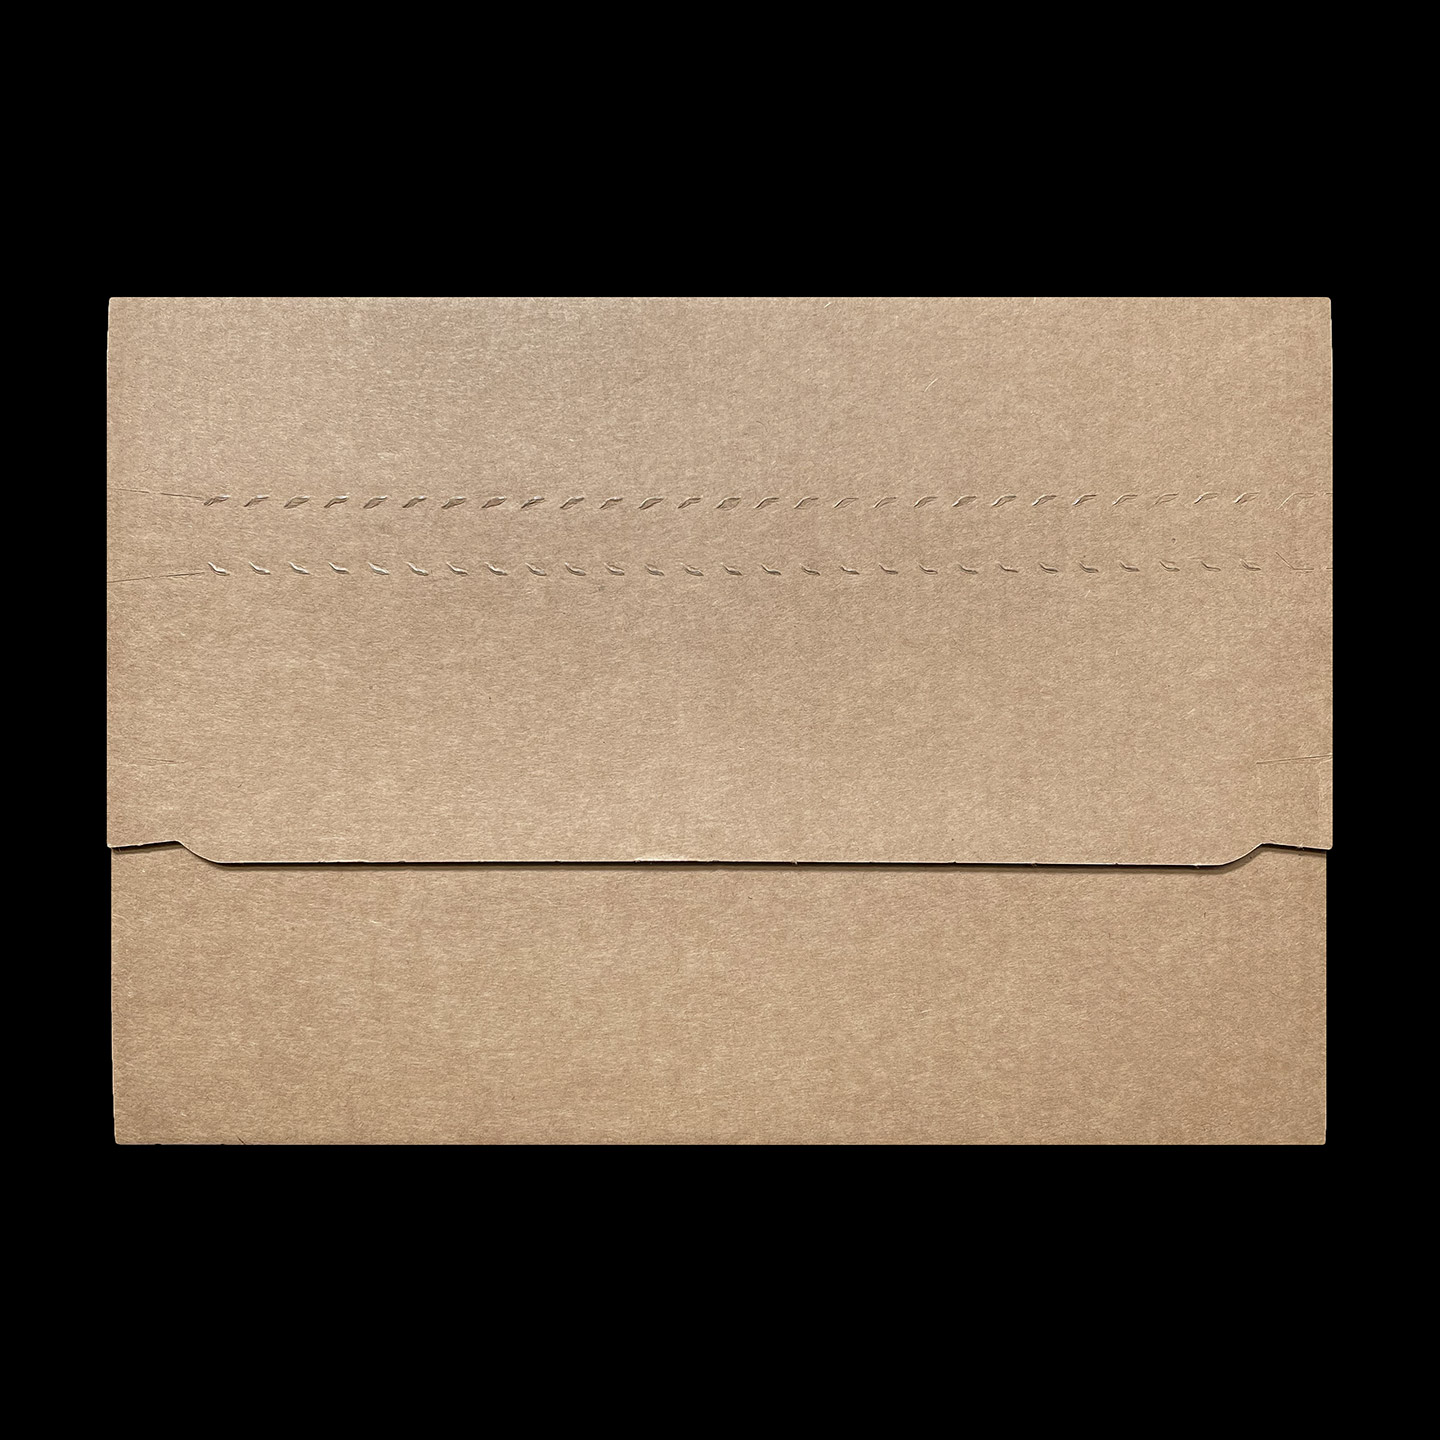
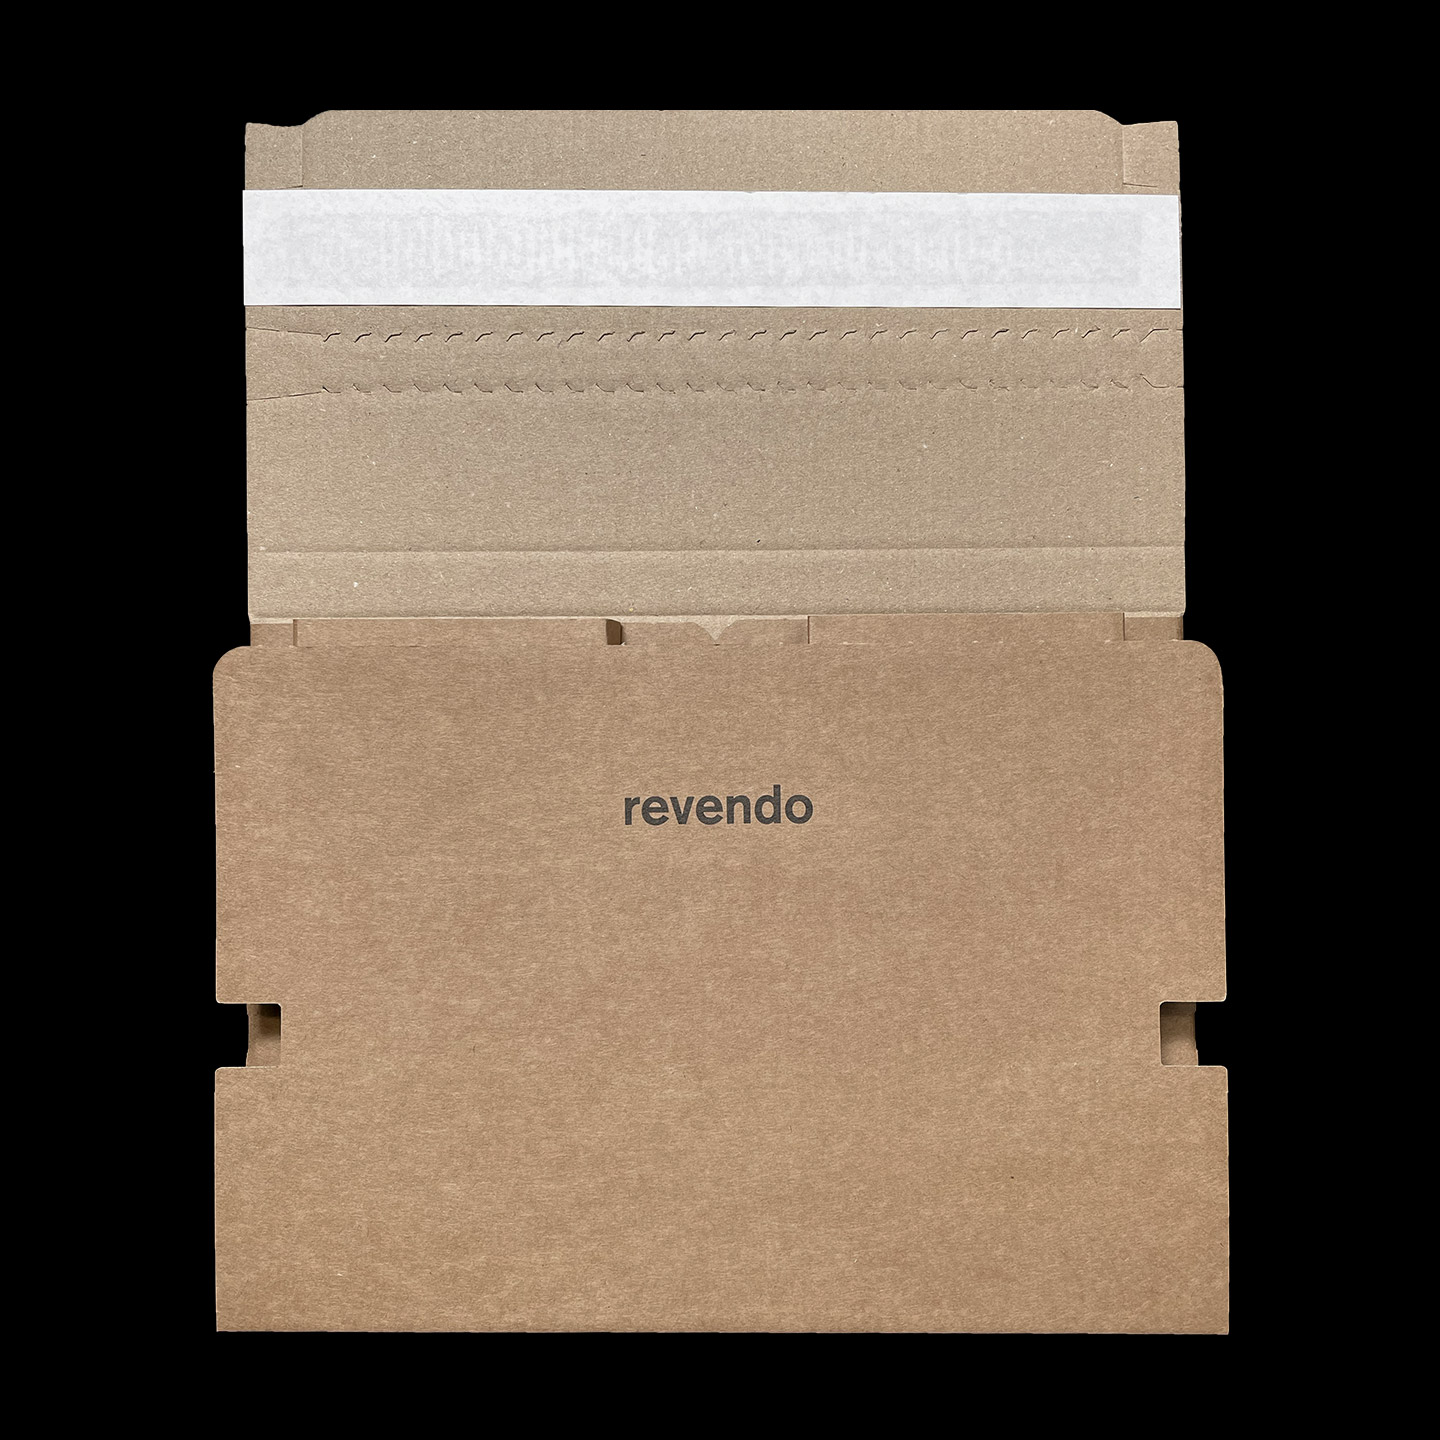
update content

diff --git a/content/portfolio/reego.md b/content/portfolio/reego.md
@@ -7,26 +7,16 @@ gallery:
   - url: reego-1.svg
     alt: Reego wordmark white on mineral grey
   - url: reego-2.svg
-    alt: Reego colour scheme gradients in light and dark
+    alt: Reego app icon outline
   - url: reego-3.svg
     alt: Reego colour scheme with nuances from mineral grey to white
   - url: reego-4.svg
     alt: Reego wordmark mineral grey on white
   - url: reego-5.jpg
-    alt: Reego wordmark on a dark blue tesla car
-  - url: reego-6.jpg
     alt: Reego app icon sketch
-  - url: reego-7.svg
-    alt: Reegoapp icon outline
-  - url: reego-8.svg
-    alt: Reego app icon beta
-  - url: reego-9.svg
-    alt: Reego app icon final
-  - url: reego-10.svg
-    alt: Reego app screen design header in darkmode
-  - url: reego-11.svg
-    alt: Reego app screen design header in lightmode
-  - url: reego-12.jpg
+  - url: reego-6.jpg
     alt: Reego wordmark on a white tesla car
+  - url: reego-7.jpg
+    alt: Reego wordmark on a dark blue tesla car
 ---
 At the formation of the start-up Reego I was commissioned to develop a logo. Reego is a vehicle dealership that offers to rent, sell and purchase electric cars. In a briefing with Reego we settled on attributes like ‹revolutionary› and ‹dynamic› and focused heavily on the functionality of the logo itself. Complementary to the logo, I was asked to design an additional app-icon and a colour scheme for the app.

diff --git a/content/portfolio/one-for-all.md b/content/portfolio/one-for-all.md
@@ -16,6 +16,8 @@ gallery:
     alt: One for all Revendo packaging
   - url: one-for-all-6.jpg
     alt: One for all Revendo packaging
+  - url: one-for-all-7.jpg
+    alt: One for all Revendo packaging
 ---
 Together with my former colleague Mara Rubio and in collaboration with Fischer Papier AG, we designed a universal packaging for all popular smartphones at Revendo. With the new design, Revendo lowers shipping costs, reduces unused space, improves handling processes for employees and upgrades the unboxing experience for customers. Thanks to flaps for temporary closure and an integrated adhesive strip for final sealing, it is more than a shipping box. It accompanies each device through Revendo’s entire cycle: from intake, internal transfers and storage, to the customer’s mailbox, and back again as return packaging. From parcel to letter: instead of going for a bigger packaging, we tried to go minimalistic with two inset cardboard pockets that hold the device in place and absorb impact, with one also holding the charging cable separately. Made from <span class="uppercase">FSC®-</span>certified cardboard with 80 percent recycled contents, the packaging is 100 percent recyclable up to 12 times. In use since 2022, the design has proven itself in tens of thousands of shipments.
 * 70&thinsp;% flatter: from 6 to 1,8&thinsp;cm
